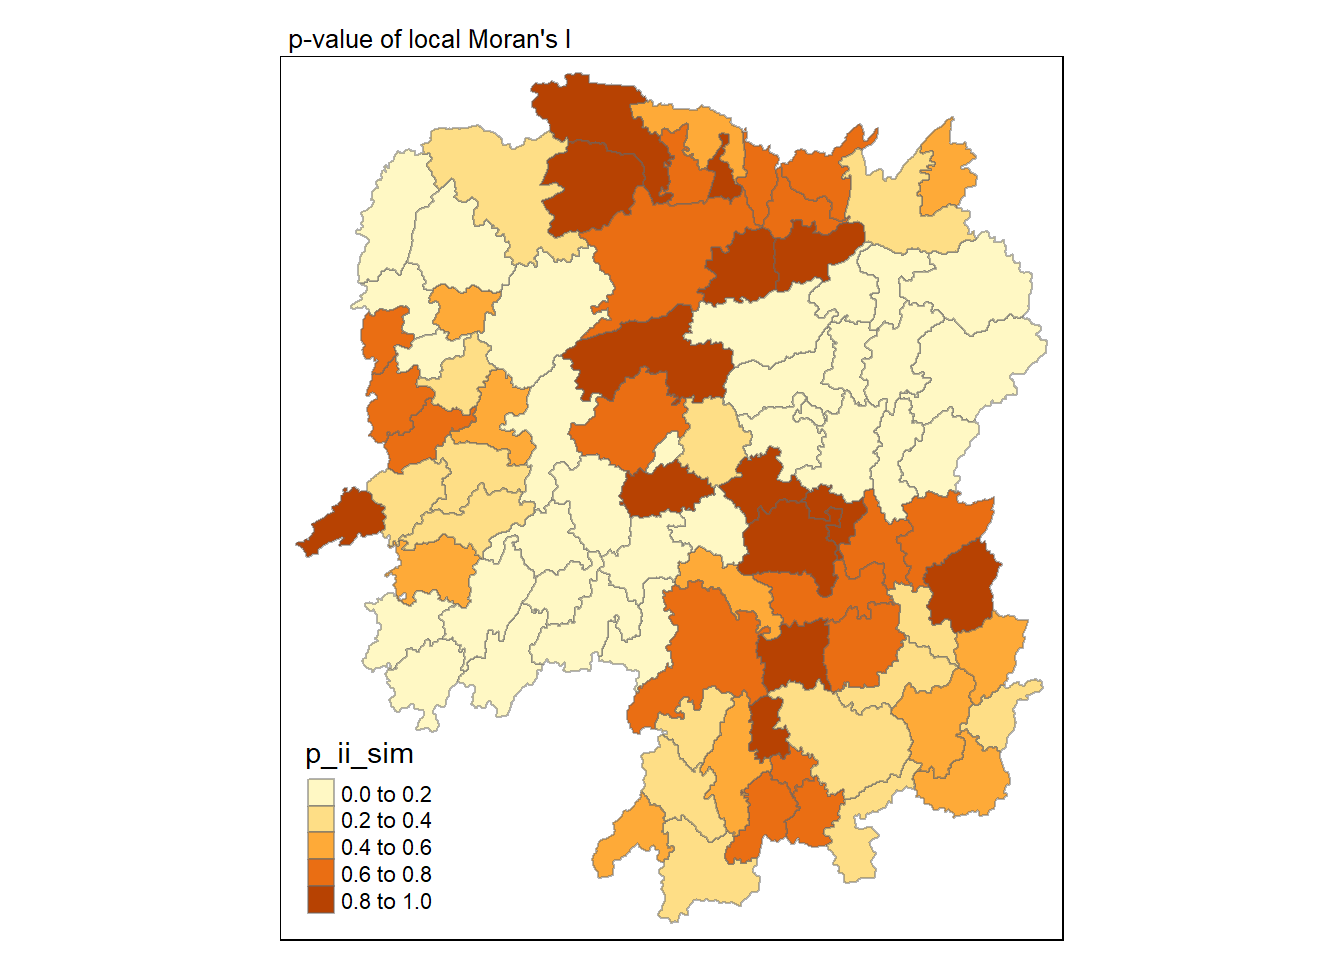
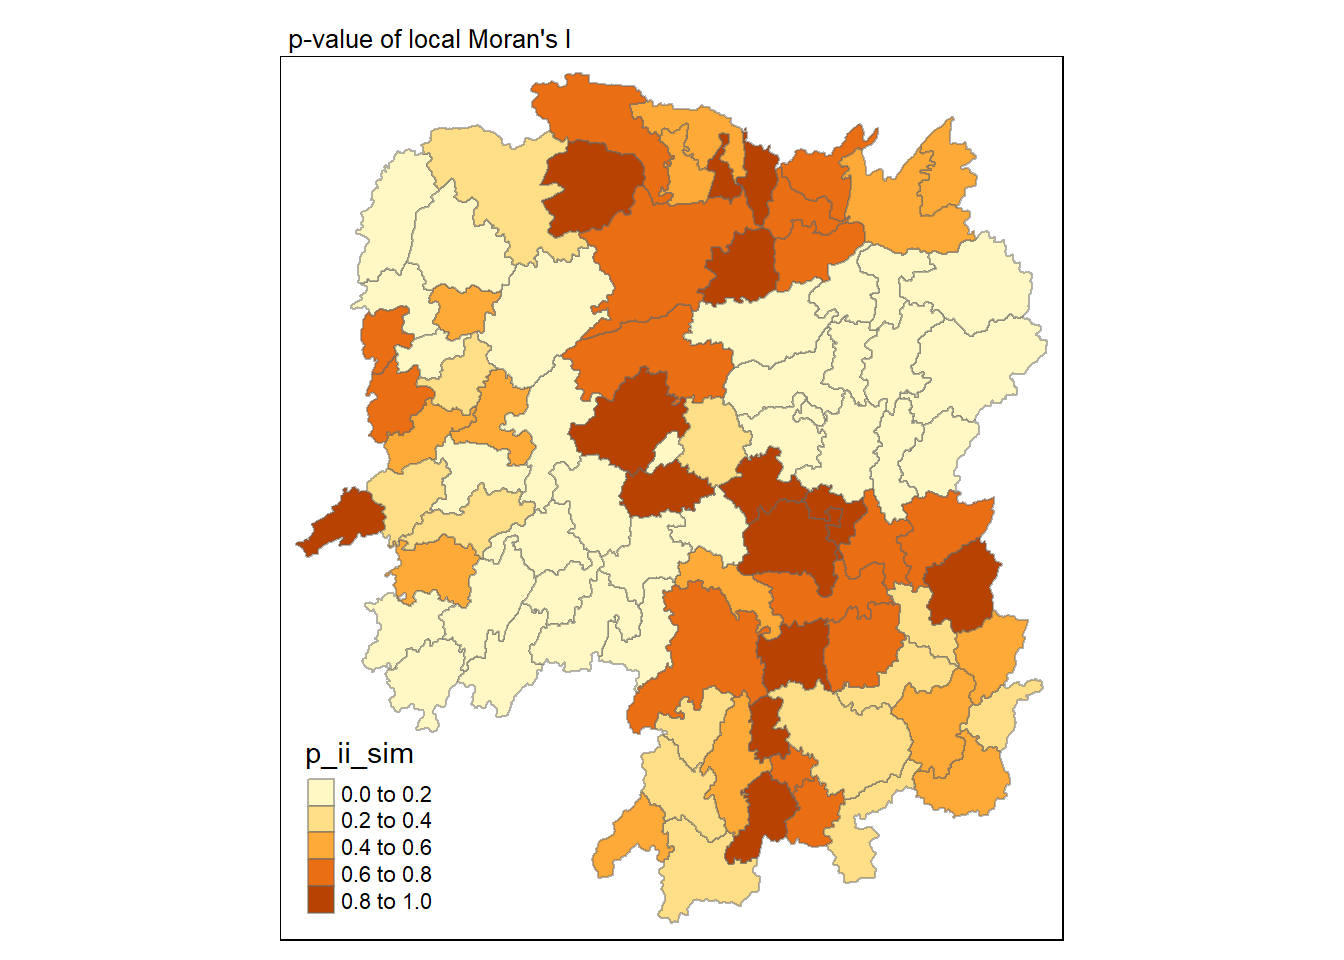
Commit In-Class Exercise 5.3

diff --git a/_site/In-Class_Exercise/In-Class_Exercise_05/In-Class_Exercise_05.html b/_site/In-Class_Exercise/In-Class_Exercise_05/In-Class_Exercise_05.html
@@ -7,7 +7,7 @@
 <meta name="viewport" content="width=device-width, initial-scale=1.0, user-scalable=yes">
 
 <meta name="author" content="Yung Qi Yang">
-<meta name="dcterms.date" content="2024-02-19">
+<meta name="dcterms.date" content="2024-03-03">
 
 <title>IS415 Course Website - In-Class Exercise 5: Global and Local Measures of Spatial Autocorrelation using sfDep methods</title>
 <style>
@@ -284,7 +284,7 @@ pre > code.sourceCode > span > a:first-child::before { text-decoration: underlin
     <div>
     <div class="quarto-title-meta-heading">Published</div>
     <div class="quarto-title-meta-contents">
-      <p class="date">February 19, 2024</p>
+      <p class="date">March 3, 2024</p>
     </div>
   </div>
   
@@ -401,7 +401,7 @@ $ GDPPC  &lt;dbl&gt; 3469, 24612, 14659, 11687, 13406, 8546, 10944, 8040, 7383, 
 <details class="code-fold">
 <summary>Reveal Code</summary>
 <div class="sourceCode cell-code" id="cb10"><pre class="sourceCode r code-with-copy"><code class="sourceCode r"><span id="cb10-1"><a href="#cb10-1" aria-hidden="true" tabindex="-1"></a>hunan_GDPPC <span class="ot">&lt;-</span> <span class="fu">left_join</span>(hunan, hunan2012) <span class="sc">%&gt;%</span> </span>
-<span id="cb10-2"><a href="#cb10-2" aria-hidden="true" tabindex="-1"></a>  <span class="fu">select</span>(<span class="dv">1</span><span class="sc">:</span><span class="dv">4</span>, <span class="dv">7</span>, <span class="dv">14</span>)</span>
+<span id="cb10-2"><a href="#cb10-2" aria-hidden="true" tabindex="-1"></a>  <span class="fu">select</span>(<span class="dv">1</span><span class="sc">:</span><span class="dv">4</span>, <span class="dv">7</span>, <span class="dv">15</span>)</span>
 <span id="cb10-3"><a href="#cb10-3" aria-hidden="true" tabindex="-1"></a></span>
 <span id="cb10-4"><a href="#cb10-4" aria-hidden="true" tabindex="-1"></a><span class="fu">write_rds</span>(hunan_GDPPC, <span class="st">"Data/Geospatial/RDS/Hunan.rds"</span>)</span></code><button title="Copy to Clipboard" class="code-copy-button"><i class="bi"></i></button></pre></div>
 </details>
@@ -506,7 +506,7 @@ data:  x
 weights: listw  
 number of simulations + 1: 1000 
 
-statistic = 0.30075, observed rank = 1000, p-value &lt; 2.2e-16
+statistic = 0.30075, observed rank = 999, p-value = 0.002
 alternative hypothesis: two.sided</code></pre>
 </div>
 </div>
@@ -526,14 +526,14 @@ alternative hypothesis: two.sided</code></pre>
 <pre><code>Rows: 88
 Columns: 21
 $ ii           &lt;dbl&gt; -1.468468e-03, 2.587817e-02, -1.198765e-02, 1.022468e-03,…
-$ eii          &lt;dbl&gt; 4.791101e-04, -1.370258e-03, -9.179811e-03, 6.702757e-05,…
-$ var_ii       &lt;dbl&gt; 4.990939e-04, 1.144549e-02, 1.152352e-01, 5.315423e-06, 1…
-$ z_ii         &lt;dbl&gt; -0.087177358, 0.254697306, -0.008271399, 0.414414153, 0.3…
-$ p_ii         &lt;dbl&gt; 0.9305305368, 0.7989568973, 0.9934004534, 0.6785708257, 0…
-$ p_ii_sim     &lt;dbl&gt; 0.752, 0.970, 0.808, 0.598, 0.626, 0.808, 0.030, 0.138, 0…
-$ p_folded_sim &lt;dbl&gt; 0.376, 0.485, 0.404, 0.299, 0.313, 0.404, 0.015, 0.069, 0…
-$ skewness     &lt;dbl&gt; -0.9664568, -0.8760448, 1.1142897, 0.9609701, 1.0423294, …
-$ kurtosis     &lt;dbl&gt; 0.8370938, 0.5650437, 1.2996053, 0.6295201, 1.1367946, 1.…
+$ eii          &lt;dbl&gt; 1.433282e-05, -3.790366e-04, 5.482084e-03, 6.493494e-05, …
+$ var_ii       &lt;dbl&gt; 5.155540e-04, 1.022994e-02, 1.089858e-01, 5.451345e-06, 1…
+$ z_ii         &lt;dbl&gt; -0.06530488, 0.25960440, -0.05291774, 0.41011136, 0.40982…
+$ p_ii         &lt;dbl&gt; 0.9479312534, 0.7951689453, 0.9577974516, 0.6817242595, 0…
+$ p_ii_sim     &lt;dbl&gt; 0.820, 0.926, 0.876, 0.596, 0.580, 0.788, 0.050, 0.110, 0…
+$ p_folded_sim &lt;dbl&gt; 0.410, 0.463, 0.438, 0.298, 0.290, 0.394, 0.025, 0.055, 0…
+$ skewness     &lt;dbl&gt; -0.8746918, -1.0109108, 0.8344852, 1.0626077, 1.0830373, …
+$ kurtosis     &lt;dbl&gt; 0.5472523, 1.4929719, 0.6632058, 1.3826526, 1.2643234, 0.…
 $ mean         &lt;fct&gt; Low-High, Low-Low, High-Low, High-High, High-High, High-L…
 $ median       &lt;fct&gt; High-High, High-High, High-High, High-High, High-High, Hi…
 $ pysal        &lt;fct&gt; Low-High, Low-Low, High-Low, High-High, High-High, High-L…
@@ -543,7 +543,7 @@ $ NAME_2       &lt;chr&gt; "Changde", "Changde", "Changde", "Changde", "Changde"
 $ ID_3         &lt;int&gt; 21098, 21100, 21101, 21102, 21103, 21104, 21109, 21110, 2…
 $ NAME_3       &lt;chr&gt; "Anxiang", "Hanshou", "Jinshi", "Li", "Linli", "Shimen", …
 $ ENGTYPE_3    &lt;chr&gt; "County", "County", "County City", "County", "County", "C…
-$ City         &lt;chr&gt; "Changde", "Changde", "Changde", "Changde", "Changde", "C…
+$ County       &lt;chr&gt; "Anxiang", "Hanshou", "Jinshi", "Li", "Linli", "Shimen", …
 $ GDPPC        &lt;dbl&gt; 23667, 20981, 34592, 24473, 25554, 27137, 63118, 62202, 7…
 $ geometry     &lt;POLYGON [°]&gt; POLYGON ((112.0625 29.75523..., POLYGON ((112.228…</code></pre>
 </div>
@@ -646,20 +646,20 @@ $ geometry     &lt;POLYGON [°]&gt; POLYGON ((112.0625 29.75523..., POLYGON ((11
 <pre><code>Rows: 88
 Columns: 17
 $ gi_star      &lt;dbl&gt; 0.04157939, -0.33349729, 0.28072709, 0.41149401, 0.387293…
-$ e_gi         &lt;dbl&gt; 0.010986524, 0.010989405, 0.012106503, 0.011504353, 0.011…
-$ var_gi       &lt;dbl&gt; 6.747106e-06, 7.577826e-06, 8.059967e-06, 9.005071e-06, 9…
-$ p_value      &lt;dbl&gt; 0.18922453, -0.19738559, 0.03818130, 0.36892203, 0.368257…
-$ p_sim        &lt;dbl&gt; 0.8499168454, 0.8435258075, 0.9695431267, 0.7121858427, 0…
-$ p_folded_sim &lt;dbl&gt; 0.74, 0.94, 0.80, 0.52, 0.56, 0.66, 0.04, 0.14, 0.02, 0.1…
-$ skewness     &lt;dbl&gt; 0.37, 0.47, 0.40, 0.26, 0.28, 0.33, 0.02, 0.07, 0.01, 0.0…
-$ kurtosis     &lt;dbl&gt; 0.9073662, 1.1734660, 1.1759466, 1.1871992, 1.1688811, 0.…
+$ e_gi         &lt;dbl&gt; 0.011187352, 0.010966172, 0.012616498, 0.011049479, 0.011…
+$ var_gi       &lt;dbl&gt; 5.824384e-06, 7.424333e-06, 7.623252e-06, 8.259654e-06, 8…
+$ p_value      &lt;dbl&gt; 0.12044798, -0.19088895, -0.14545253, 0.54348412, 0.34317…
+$ p_sim        &lt;dbl&gt; 0.9041282886, 0.8486125961, 0.8843535957, 0.5867965185, 0…
+$ p_folded_sim &lt;dbl&gt; 0.80, 0.98, 0.96, 0.50, 0.58, 0.80, 0.04, 0.08, 0.02, 0.2…
+$ skewness     &lt;dbl&gt; 0.40, 0.49, 0.48, 0.25, 0.29, 0.40, 0.02, 0.04, 0.01, 0.1…
+$ kurtosis     &lt;dbl&gt; 1.1100203, 0.7540941, 0.5091735, 1.1628205, 0.9694879, 0.…
 $ nb           &lt;nb&gt; &lt;2, 3, 4, 57, 85&gt;, &lt;1, 57, 58, 78, 85&gt;, &lt;1, 4, 5, 85&gt;, &lt;1,…
 $ wts          &lt;list&gt; &lt;0.01526149, 0.03515537, 0.02176677, 0.02836978, 0.01029…
 $ NAME_2       &lt;chr&gt; "Changde", "Changde", "Changde", "Changde", "Changde", "C…
 $ ID_3         &lt;int&gt; 21098, 21100, 21101, 21102, 21103, 21104, 21109, 21110, 2…
 $ NAME_3       &lt;chr&gt; "Anxiang", "Hanshou", "Jinshi", "Li", "Linli", "Shimen", …
 $ ENGTYPE_3    &lt;chr&gt; "County", "County", "County City", "County", "County", "C…
-$ City         &lt;chr&gt; "Changde", "Changde", "Changde", "Changde", "Changde", "C…
+$ County       &lt;chr&gt; "Anxiang", "Hanshou", "Jinshi", "Li", "Linli", "Shimen", …
 $ GDPPC        &lt;dbl&gt; 23667, 20981, 34592, 24473, 25554, 27137, 63118, 62202, 7…
 $ geometry     &lt;POLYGON [°]&gt; POLYGON ((112.0625 29.75523..., POLYGON ((112.228…</code></pre>
 </div>
@@ -831,8 +831,8 @@ $ geometry     &lt;POLYGON [°]&gt; POLYGON ((112.0625 29.75523..., POLYGON ((11
 <span id="cb36-7"><a href="#cb36-7" aria-hidden="true" tabindex="-1"></a><span class="fu">ggplotly</span>(p)</span></code><button title="Copy to Clipboard" class="code-copy-button"><i class="bi"></i></button></pre></div>
 </details>
 <div class="cell-output-display">
-<div class="plotly html-widget html-fill-item" id="htmlwidget-d8e36ba1812f0908ea44" style="width:100%;height:464px;"></div>
-<script type="application/json" data-for="htmlwidget-d8e36ba1812f0908ea44">{"x":{"data":[{"x":[2005,2006,2007,2008,2009,2010,2011,2012,2013,2014,2015,2016,2017,2018,2019,2020,2021],"y":[5.0282995066289047,5.1692011079782345,5.2958892892912894,5.6039537096873993,6.2788862246004742,5.9357455762937326,5.7508709054298892,5.6942475830114576,5.7085054237054784,5.7608121561733521,6.097127241257188,6.0036547779673146,6.2028053540357906,6.0371816202738318,6.579432171885526,5.7669155664195504,5.7486534794156494],"text":["Year: 2005<br />gi_star: 5.028300","Year: 2006<br />gi_star: 5.169201","Year: 2007<br />gi_star: 5.295889","Year: 2008<br />gi_star: 5.603954","Year: 2009<br />gi_star: 6.278886","Year: 2010<br />gi_star: 5.935746","Year: 2011<br />gi_star: 5.750871","Year: 2012<br />gi_star: 5.694248","Year: 2013<br />gi_star: 5.708505","Year: 2014<br />gi_star: 5.760812","Year: 2015<br />gi_star: 6.097127","Year: 2016<br />gi_star: 6.003655","Year: 2017<br />gi_star: 6.202805","Year: 2018<br />gi_star: 6.037182","Year: 2019<br />gi_star: 6.579432","Year: 2020<br />gi_star: 5.766916","Year: 2021<br />gi_star: 5.748653"],"type":"scatter","mode":"lines","line":{"width":1.8897637795275593,"color":"rgba(0,0,0,1)","dash":"solid"},"hoveron":"points","showlegend":false,"xaxis":"x","yaxis":"y","hoverinfo":"text","frame":null}],"layout":{"margin":{"t":26.228310502283104,"r":7.3059360730593621,"b":40.182648401826491,"l":43.105022831050235},"plot_bgcolor":"rgba(255,255,255,1)","paper_bgcolor":"rgba(255,255,255,1)","font":{"color":"rgba(0,0,0,1)","family":"","size":14.611872146118724},"xaxis":{"domain":[0,1],"automargin":true,"type":"linear","autorange":false,"range":[2004.2,2021.8],"tickmode":"array","ticktext":["2005","2010","2015","2020"],"tickvals":[2005,2010,2015,2020],"categoryorder":"array","categoryarray":["2005","2010","2015","2020"],"nticks":null,"ticks":"outside","tickcolor":"rgba(179,179,179,1)","ticklen":3.6529680365296811,"tickwidth":0.33208800332088001,"showticklabels":true,"tickfont":{"color":"rgba(77,77,77,1)","family":"","size":11.68949771689498},"tickangle":-0,"showline":false,"linecolor":null,"linewidth":0,"showgrid":true,"gridcolor":"rgba(222,222,222,1)","gridwidth":0.33208800332088001,"zeroline":false,"anchor":"y","title":{"text":"Year","font":{"color":"rgba(0,0,0,1)","family":"","size":14.611872146118724}},"hoverformat":".2f"},"yaxis":{"domain":[0,1],"automargin":true,"type":"linear","autorange":false,"range":[4.9507428733660737,6.656988805148357],"tickmode":"array","ticktext":["5.0","5.5","6.0","6.5"],"tickvals":[5,5.5,6,6.5],"categoryorder":"array","categoryarray":["5.0","5.5","6.0","6.5"],"nticks":null,"ticks":"outside","tickcolor":"rgba(179,179,179,1)","ticklen":3.6529680365296811,"tickwidth":0.33208800332088001,"showticklabels":true,"tickfont":{"color":"rgba(77,77,77,1)","family":"","size":11.68949771689498},"tickangle":-0,"showline":false,"linecolor":null,"linewidth":0,"showgrid":true,"gridcolor":"rgba(222,222,222,1)","gridwidth":0.33208800332088001,"zeroline":false,"anchor":"x","title":{"text":"gi_star","font":{"color":"rgba(0,0,0,1)","family":"","size":14.611872146118724}},"hoverformat":".2f"},"shapes":[{"type":"rect","fillcolor":"transparent","line":{"color":"rgba(179,179,179,1)","width":0.66417600664176002,"linetype":"solid"},"yref":"paper","xref":"paper","x0":0,"x1":1,"y0":0,"y1":1}],"showlegend":false,"legend":{"bgcolor":"rgba(255,255,255,1)","bordercolor":"transparent","borderwidth":1.8897637795275593,"font":{"color":"rgba(0,0,0,1)","family":"","size":11.68949771689498}},"hovermode":"closest","barmode":"relative"},"config":{"doubleClick":"reset","modeBarButtonsToAdd":["hoverclosest","hovercompare"],"showSendToCloud":false},"source":"A","attrs":{"12469bf331c":{"x":{},"y":{},"type":"scatter"}},"cur_data":"12469bf331c","visdat":{"12469bf331c":["function (y) ","x"]},"highlight":{"on":"plotly_click","persistent":false,"dynamic":false,"selectize":false,"opacityDim":0.20000000000000001,"selected":{"opacity":1},"debounce":0},"shinyEvents":["plotly_hover","plotly_click","plotly_selected","plotly_relayout","plotly_brushed","plotly_brushing","plotly_clickannotation","plotly_doubleclick","plotly_deselect","plotly_afterplot","plotly_sunburstclick"],"base_url":"https://plot.ly"},"evals":[],"jsHooks":[]}</script>
+<div class="plotly html-widget html-fill-item" id="htmlwidget-a6ed6b09c28b4b3acad0" style="width:100%;height:464px;"></div>
+<script type="application/json" data-for="htmlwidget-a6ed6b09c28b4b3acad0">{"x":{"data":[{"x":[2005,2006,2007,2008,2009,2010,2011,2012,2013,2014,2015,2016,2017,2018,2019,2020,2021],"y":[5.0282995066289047,5.1692011079782345,5.2958892892912894,5.6039537096873993,6.2788862246004742,5.9357455762937326,5.7508709054298892,5.6942475830114576,5.7085054237054784,5.7608121561733521,6.097127241257188,6.0036547779673146,6.2028053540357906,6.0371816202738318,6.579432171885526,5.7669155664195504,5.7486534794156494],"text":["Year: 2005<br />gi_star: 5.028300","Year: 2006<br />gi_star: 5.169201","Year: 2007<br />gi_star: 5.295889","Year: 2008<br />gi_star: 5.603954","Year: 2009<br />gi_star: 6.278886","Year: 2010<br />gi_star: 5.935746","Year: 2011<br />gi_star: 5.750871","Year: 2012<br />gi_star: 5.694248","Year: 2013<br />gi_star: 5.708505","Year: 2014<br />gi_star: 5.760812","Year: 2015<br />gi_star: 6.097127","Year: 2016<br />gi_star: 6.003655","Year: 2017<br />gi_star: 6.202805","Year: 2018<br />gi_star: 6.037182","Year: 2019<br />gi_star: 6.579432","Year: 2020<br />gi_star: 5.766916","Year: 2021<br />gi_star: 5.748653"],"type":"scatter","mode":"lines","line":{"width":1.8897637795275593,"color":"rgba(0,0,0,1)","dash":"solid"},"hoveron":"points","showlegend":false,"xaxis":"x","yaxis":"y","hoverinfo":"text","frame":null}],"layout":{"margin":{"t":26.228310502283104,"r":7.3059360730593621,"b":40.182648401826491,"l":43.105022831050235},"plot_bgcolor":"rgba(255,255,255,1)","paper_bgcolor":"rgba(255,255,255,1)","font":{"color":"rgba(0,0,0,1)","family":"","size":14.611872146118724},"xaxis":{"domain":[0,1],"automargin":true,"type":"linear","autorange":false,"range":[2004.2,2021.8],"tickmode":"array","ticktext":["2005","2010","2015","2020"],"tickvals":[2005,2010,2015,2020],"categoryorder":"array","categoryarray":["2005","2010","2015","2020"],"nticks":null,"ticks":"outside","tickcolor":"rgba(179,179,179,1)","ticklen":3.6529680365296811,"tickwidth":0.33208800332088001,"showticklabels":true,"tickfont":{"color":"rgba(77,77,77,1)","family":"","size":11.68949771689498},"tickangle":-0,"showline":false,"linecolor":null,"linewidth":0,"showgrid":true,"gridcolor":"rgba(222,222,222,1)","gridwidth":0.33208800332088001,"zeroline":false,"anchor":"y","title":{"text":"Year","font":{"color":"rgba(0,0,0,1)","family":"","size":14.611872146118724}},"hoverformat":".2f"},"yaxis":{"domain":[0,1],"automargin":true,"type":"linear","autorange":false,"range":[4.9507428733660737,6.656988805148357],"tickmode":"array","ticktext":["5.0","5.5","6.0","6.5"],"tickvals":[5,5.5,6,6.5],"categoryorder":"array","categoryarray":["5.0","5.5","6.0","6.5"],"nticks":null,"ticks":"outside","tickcolor":"rgba(179,179,179,1)","ticklen":3.6529680365296811,"tickwidth":0.33208800332088001,"showticklabels":true,"tickfont":{"color":"rgba(77,77,77,1)","family":"","size":11.68949771689498},"tickangle":-0,"showline":false,"linecolor":null,"linewidth":0,"showgrid":true,"gridcolor":"rgba(222,222,222,1)","gridwidth":0.33208800332088001,"zeroline":false,"anchor":"x","title":{"text":"gi_star","font":{"color":"rgba(0,0,0,1)","family":"","size":14.611872146118724}},"hoverformat":".2f"},"shapes":[{"type":"rect","fillcolor":"transparent","line":{"color":"rgba(179,179,179,1)","width":0.66417600664176002,"linetype":"solid"},"yref":"paper","xref":"paper","x0":0,"x1":1,"y0":0,"y1":1}],"showlegend":false,"legend":{"bgcolor":"rgba(255,255,255,1)","bordercolor":"transparent","borderwidth":1.8897637795275593,"font":{"color":"rgba(0,0,0,1)","family":"","size":11.68949771689498}},"hovermode":"closest","barmode":"relative"},"config":{"doubleClick":"reset","modeBarButtonsToAdd":["hoverclosest","hovercompare"],"showSendToCloud":false},"source":"A","attrs":{"50cc4c4c3746":{"x":{},"y":{},"type":"scatter"}},"cur_data":"50cc4c4c3746","visdat":{"50cc4c4c3746":["function (y) ","x"]},"highlight":{"on":"plotly_click","persistent":false,"dynamic":false,"selectize":false,"opacityDim":0.20000000000000001,"selected":{"opacity":1},"debounce":0},"shinyEvents":["plotly_hover","plotly_click","plotly_selected","plotly_relayout","plotly_brushed","plotly_brushing","plotly_clickannotation","plotly_doubleclick","plotly_deselect","plotly_afterplot","plotly_sunburstclick"],"base_url":"https://plot.ly"},"evals":[],"jsHooks":[]}</script>
 </div>
 </div>
 </section>
